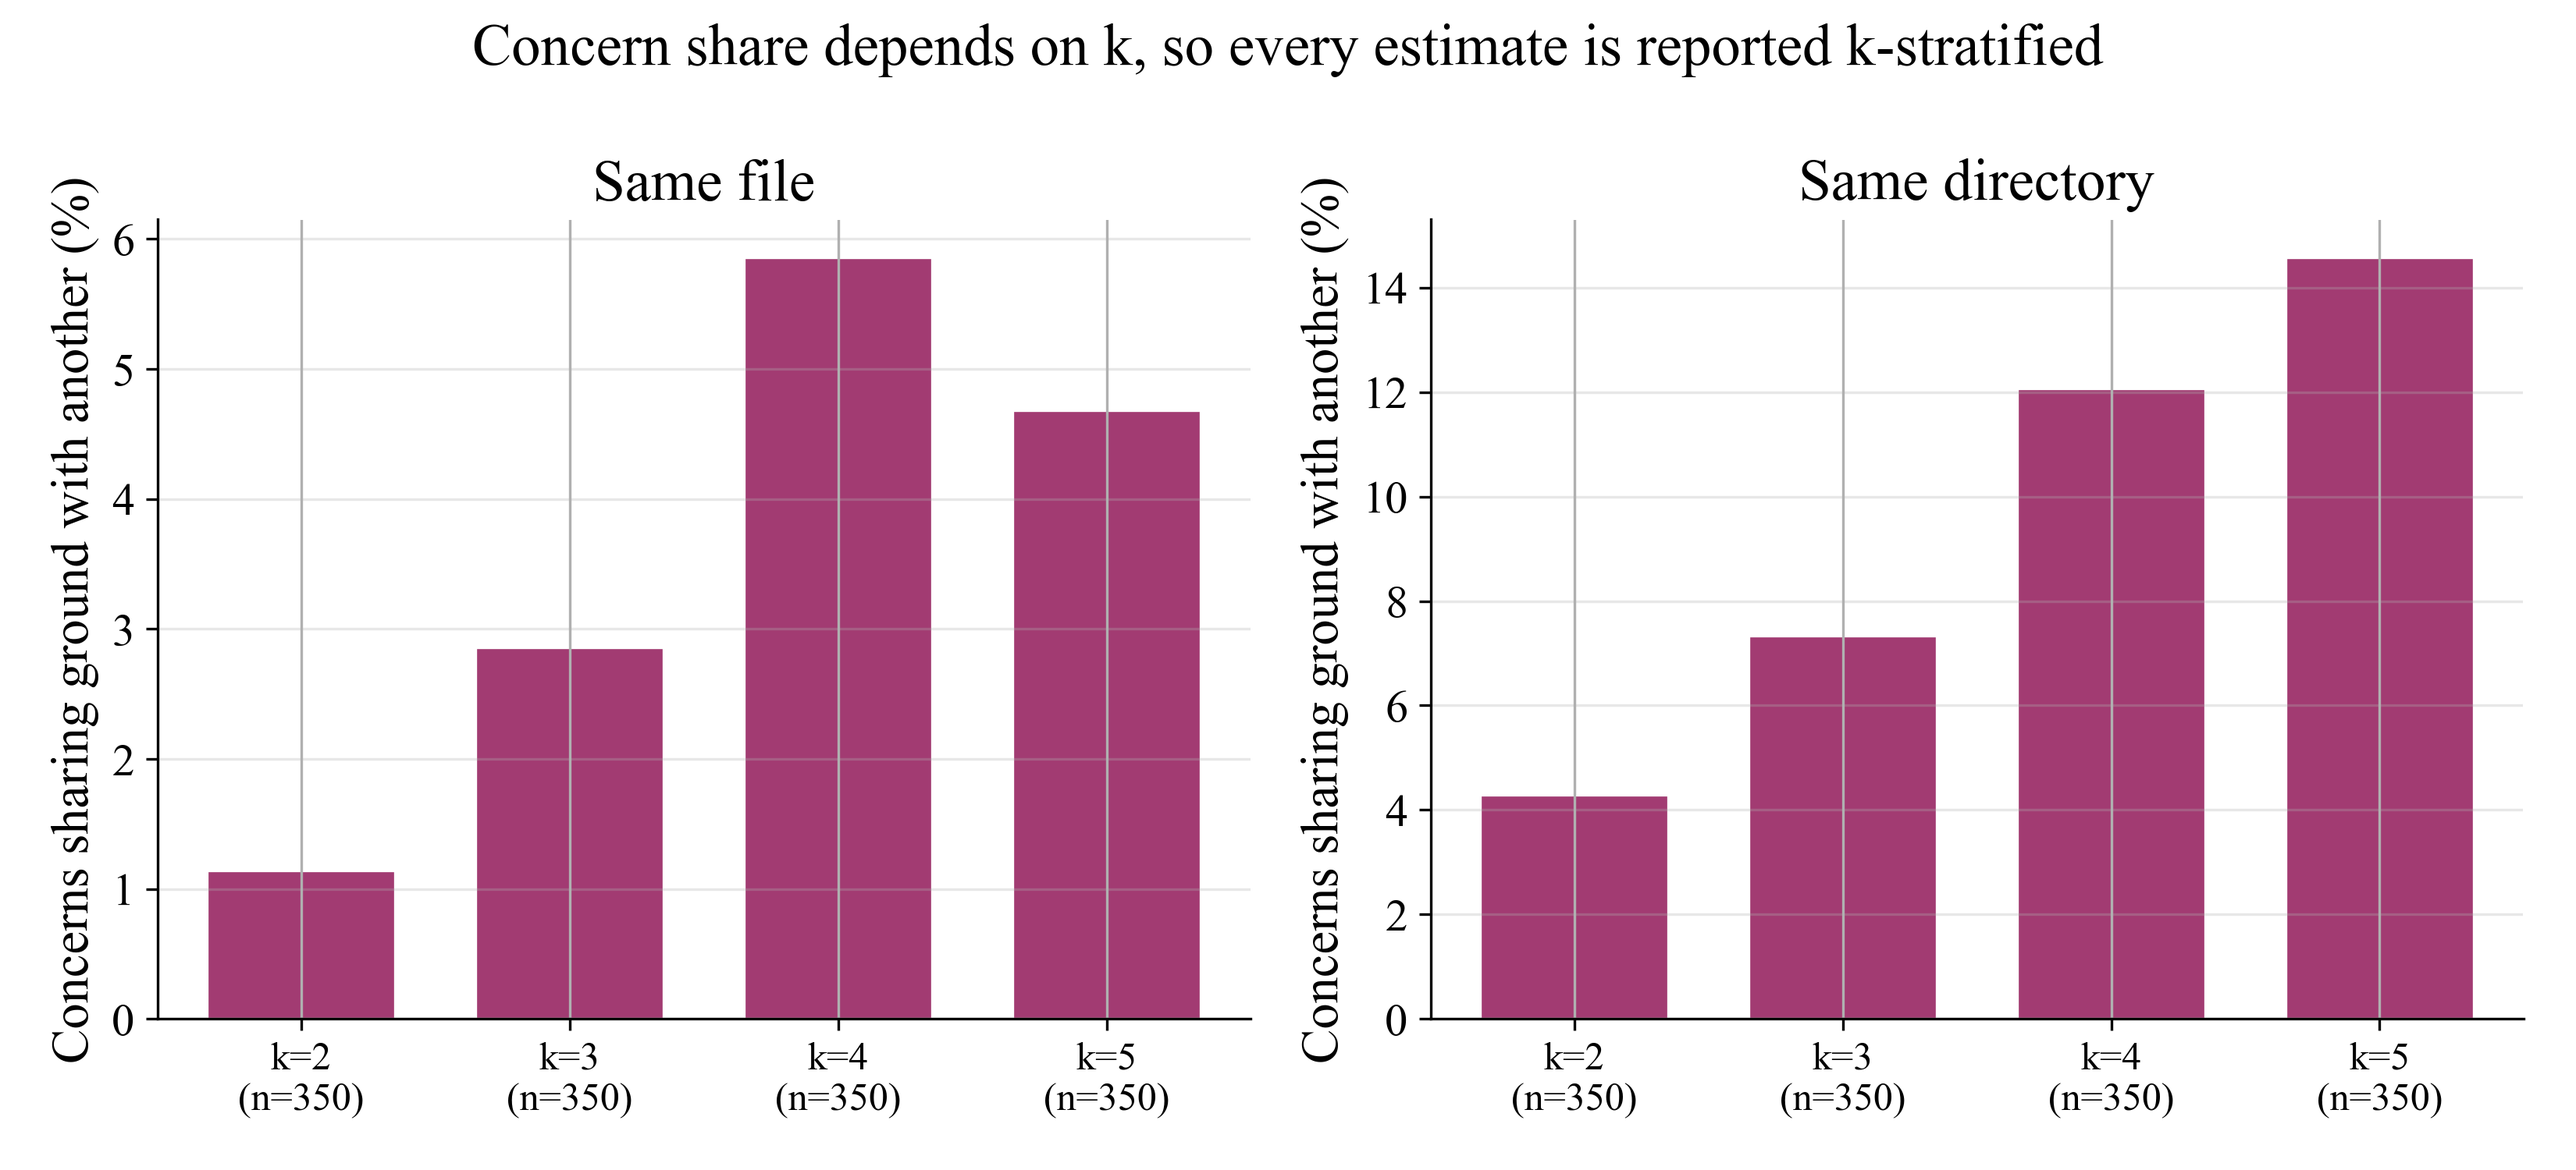
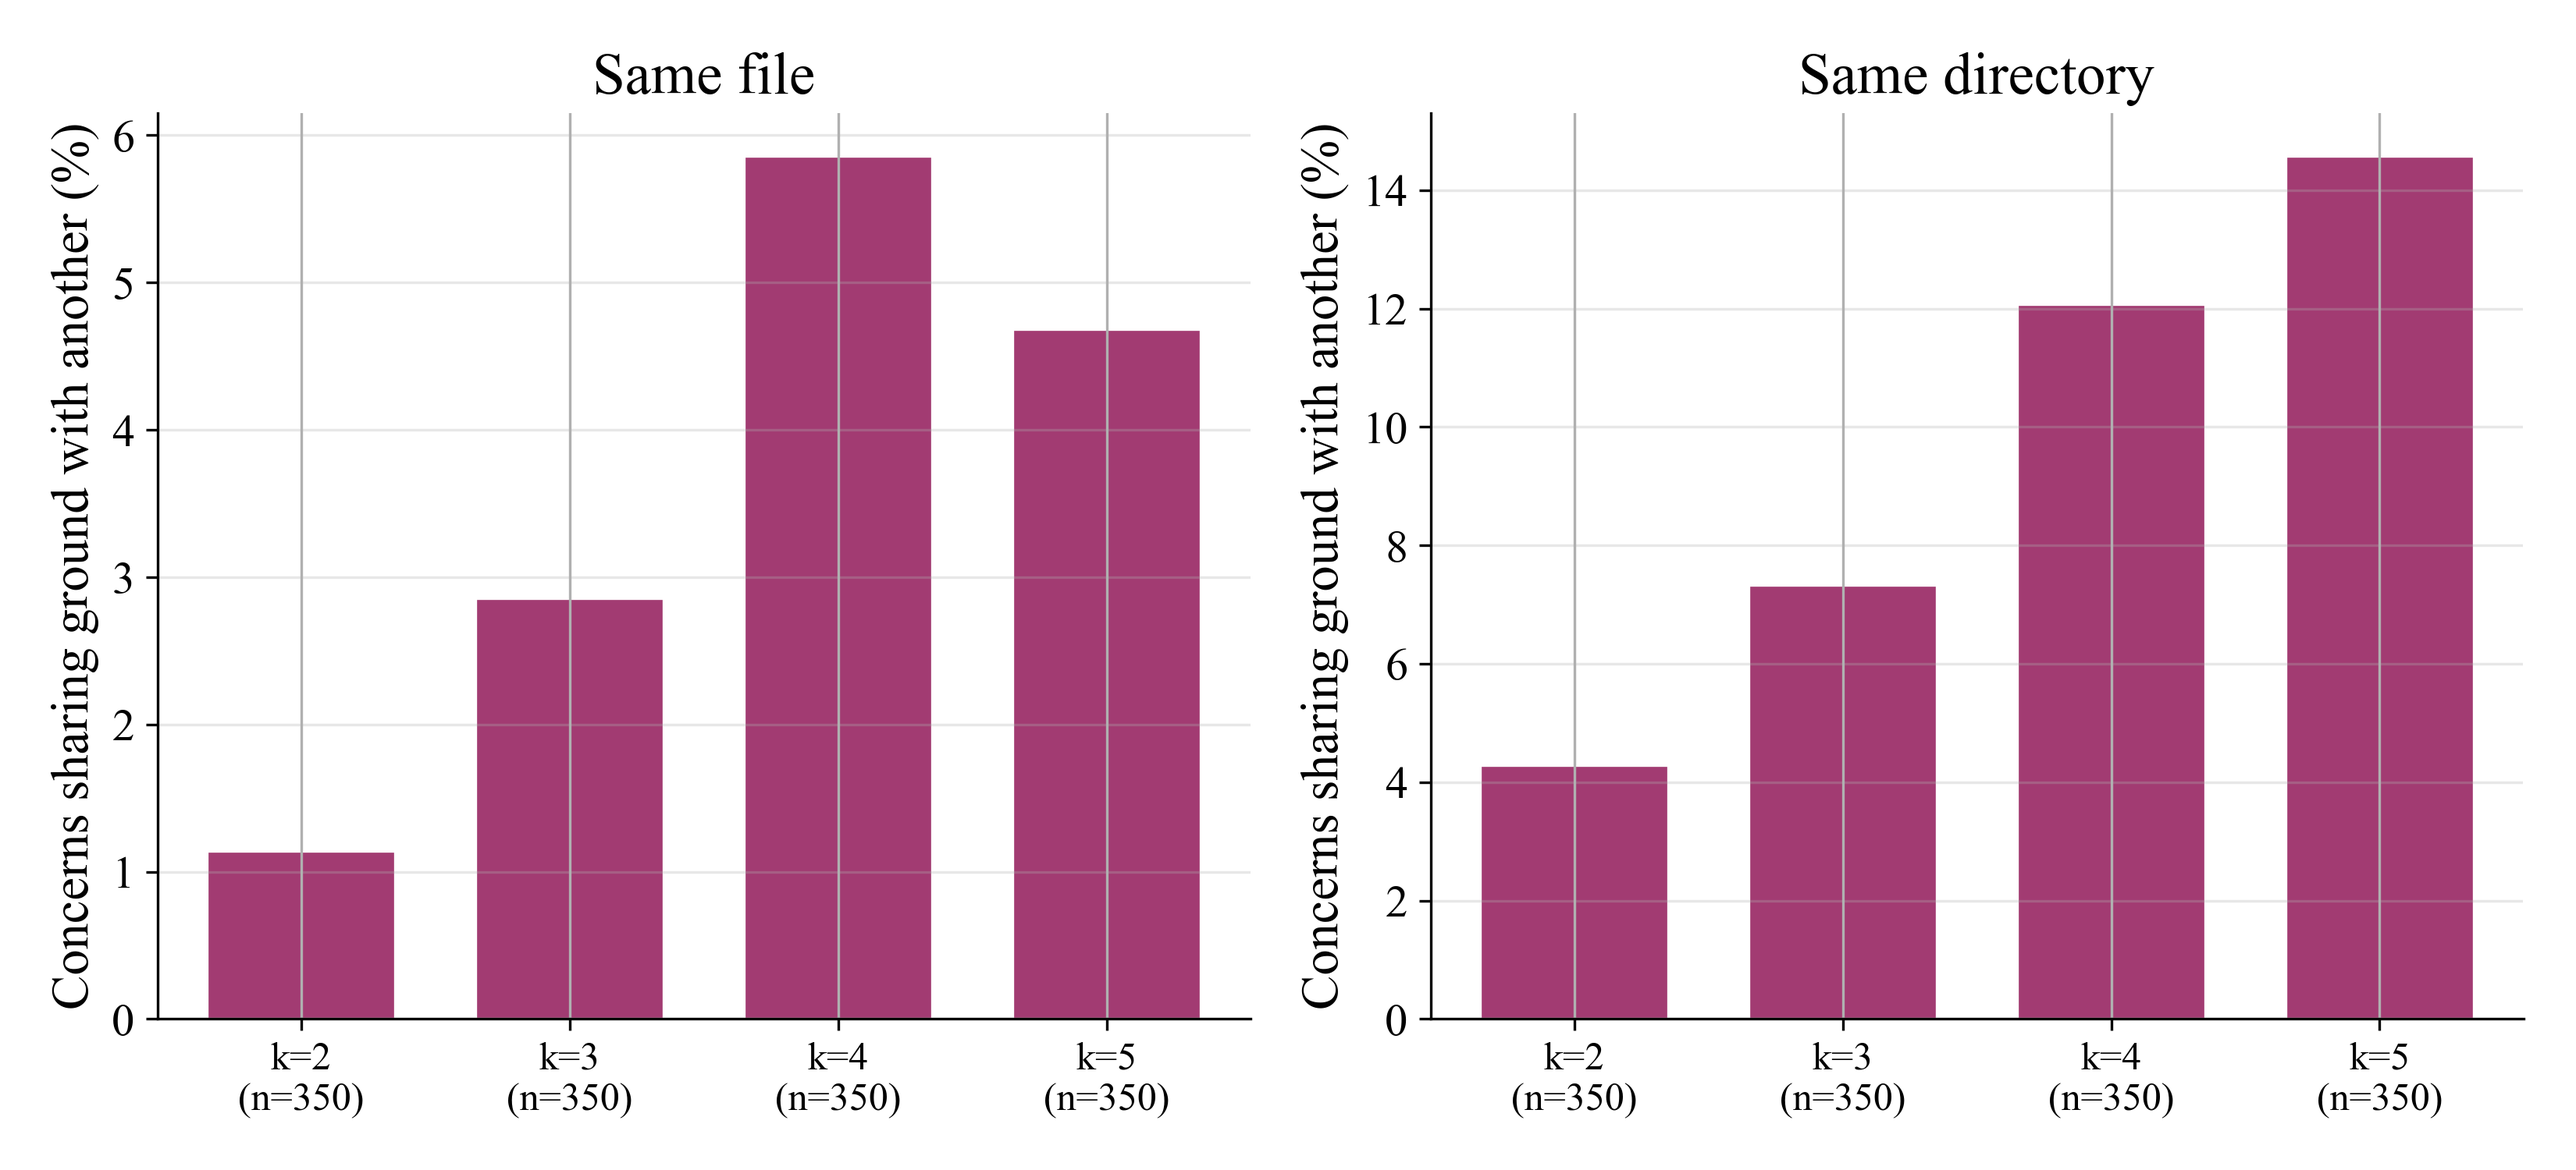
Remove sentence-style suptitle from by-k proximity figure

diff --git a/RQ/analysis/plot_structural_validity.py b/RQ/analysis/plot_structural_validity.py
@@ -227,9 +227,6 @@ def plot_by_k(artifact: Artifact, out: Path) -> None:
         _ = axes.set_title(title)
         _ = axes.set_ylabel("Concerns sharing ground with another (%)")
         _ = axes.grid(axis="y", alpha=PLOT_STYLE["grid_alpha"])
-    # Directory share climbs monotonically; file share does not (k=5 sits below
-    # k=4), so the title claims dependence on k rather than a rising trend.
-    _ = figure.suptitle("Concern share depends on k, so every estimate is reported k-stratified")
     figure.tight_layout()
     figure.savefig(out, dpi=DPI)
     plt.close(figure)
